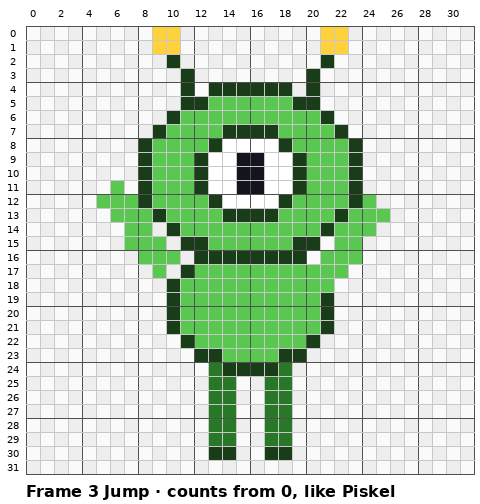
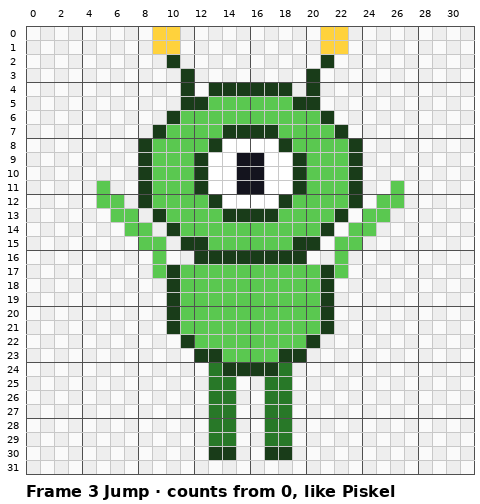
Jumping Alien: symmetrical body and arms in all 5 frames; redrawn grids, sprite sheet and GIF; step text matches
Claude-Session: https://claude.ai/code/session_0163dwnSPGg46bECUvJ2NhG6

diff --git a/piskel/lesson-00-jumping-alien/index.html b/piskel/lesson-00-jumping-alien/index.html
@@ -30,7 +30,7 @@
   <h2>What you will build</h2>
   <p>A 32 × 32 alien that crouches, jumps, tucks its legs at the top, and lands. When the frames play in order, it looks like it jumps on the spot.</p>
   <div class="refrow">
-    <img class="ref" src="img/jump.gif" alt="The finished alien jumping on a loop" width="192" height="192">
+    <img class="ref" src="img/jump.gif?v=3" alt="The finished alien jumping on a loop" width="192" height="192">
   </div>
   <table>
     <tr><th>Tool</th><th>What it is for</th><th>Link</th></tr>
@@ -139,7 +139,8 @@
 <div class="body">
 <p>Copy the Stand picture square by square. The numbers along the top and side count the pixels from 0, so you can find your place.</p>
 <div class="note what"><b>Where is my mouse?</b> The yellow numbers at the bottom-right, under the Palettes panel, show which pixel the mouse is over: the canvas size in brackets, then <b>column:row</b>, counting from 0 like the grids. The top-left pixel is <b>0:0</b>.<img src="../../assets/piskel/mouse-position.png" alt="Yellow numbers at the bottom-right of Piskel: zoom, then canvas size and column:row under the mouse, then frame" width="170" height="70" style="display:block;max-width:100%;height:auto;margin:.5em 0;border:1px solid #ccc;border-radius:6px"></div>
-<img class="ref" src="img/frame-1.png?v=2" alt="Frame 1 Stand on a numbered 32 by 32 grid" width="480" height="504">
+<img class="ref" src="img/frame-1.png?v=3" alt="Frame 1 Stand on a numbered 32 by 32 grid" width="480" height="504">
+<div class="note what"><b>Both sides match:</b> the alien is a mirror image. The middle line runs between columns 15 and 16, so column 15 matches column 16, column 14 matches column 17, and so on. If one arm looks different from the other, check it against the other side.</div>
 <table>
 <tr><th>Part of the alien</th><th>Colour code</th></tr>
 <tr><td>Outline</td><td><b>#193C19</b> (very dark green)</td></tr>
@@ -196,16 +197,17 @@
 <div class="note"><b>Close enough is fine.</b> What matters is the pose: squashed, stretched, tucked, squashed. Use the grids as a guide, not a test.</div>
 
 <h3>3A · Frame 2: Crouch</h3>
-<img class="ref" src="img/frame-2.png?v=2" alt="Frame 2 Crouch on a numbered grid" width="480" height="504">
+<img class="ref" src="img/frame-2.png?v=3" alt="Frame 2 Crouch on a numbered grid" width="480" height="504">
 <ol>
 <li>Duplicate <b>frame 1</b>. Frame 2 appears and opens on the canvas.</li>
 <li>Choose the <b>Move tool</b> (the four-way arrow) and drag the drawing <b>down 3 squares</b>. The whole alien slides down; the feet go off the bottom edge for now.</li>
 <li>Erase the old straight legs (right-click with the Pen) and draw <b>bent legs</b> spreading out to the sides, with the feet on row 30, as in the picture.</li>
-<li>The head is a little shorter (squashed) in the picture. Erase a row from the top of the head and redraw the top of the outline if you want the full squash.</li>
+<li>Erase the arms and draw them a little <b>shorter</b>, so the hands stop at row 25, just above the bent legs.</li>
+<li>The head is squashed in the picture: its top is 2 rows lower and the antennae are shorter, with the yellow tips on rows 9 and 10. Redraw the top of the head and the antennae to match if you want the full squash.</li>
 </ol>
 
 <h3>3B · Frame 3: Jump</h3>
-<img class="ref" src="img/frame-3.png?v=2" alt="Frame 3 Jump on a numbered grid" width="480" height="504">
+<img class="ref" src="img/frame-3.png?v=3" alt="Frame 3 Jump on a numbered grid" width="480" height="504">
 <ol>
 <li>Duplicate <b>frame 1</b> (Stand), not Crouch. Hold the mouse over frame 1 and click Duplicate. The copy appears below frame 1.</li>
 <li>Hold the mouse over the new frame and drag it by its <b>move</b> handle to just below frame 2. The order should be Stand, Crouch, Jump.</li>
@@ -213,18 +215,19 @@
 </ol>
 
 <h3>3C · Frame 4: Top</h3>
-<img class="ref" src="img/frame-4.png?v=2" alt="Frame 4 Top on a numbered grid" width="480" height="504">
+<img class="ref" src="img/frame-4.png?v=3" alt="Frame 4 Top on a numbered grid" width="480" height="504">
 <ol>
 <li>Duplicate <b>frame 3</b>. Frame 4 appears below it.</li>
 <li>Erase the long legs and draw short <b>tucked legs</b> right under the body.</li>
-<li>Erase the raised arms and draw <b>arms straight out</b> to the sides.</li>
+<li>Erase the raised arms and draw <b>arms straight out</b> to the sides on row 18, with the hands turned up on row 17.</li>
+<li>The head is back to its normal Stand height (not stretched). Match the picture.</li>
 </ol>
 
 <h3>3D · Frame 5: Land</h3>
-<img class="ref" src="img/frame-5.png?v=2" alt="Frame 5 Land on a numbered grid" width="480" height="504">
+<img class="ref" src="img/frame-5.png?v=3" alt="Frame 5 Land on a numbered grid" width="480" height="504">
 <ol>
 <li>Duplicate <b>frame 2</b> (Crouch) and drag the copy to the bottom of the list, below frame 4.</li>
-<li>Erase the arms and draw them <b>straight out</b> to the sides, like frame 4. This is the alien catching its balance.</li>
+<li>Erase the arms and draw them <b>straight out</b> to the sides on row 22, with the hands turned up on row 21, like frame 4. This is the alien catching its balance.</li>
 </ol>
 
 <div class="check"><strong>Checkpoint · Part 3</strong>
@@ -264,7 +267,7 @@
 <summary><h2>Part 5 · Save and export</h2><span class="done"></span></summary>
 <div class="body">
 <p>You make two files: a <b>.piskel</b> file so you can keep editing later, and a <b>sprite sheet PNG</b>, which is all 5 frames side by side in one picture, ready for a game.</p>
-<img class="ref" src="img/finished-sprite-sheet.png" alt="The finished sprite sheet: 5 frames in one row" width="480" height="96" style="width:480px;background:#3a3c48">
+<img class="ref" src="img/finished-sprite-sheet.png?v=3" alt="The finished sprite sheet: 5 frames in one row" width="480" height="96" style="width:480px;background:#3a3c48">
 
 <h3>5A · Save your work</h3>
 <ol>
